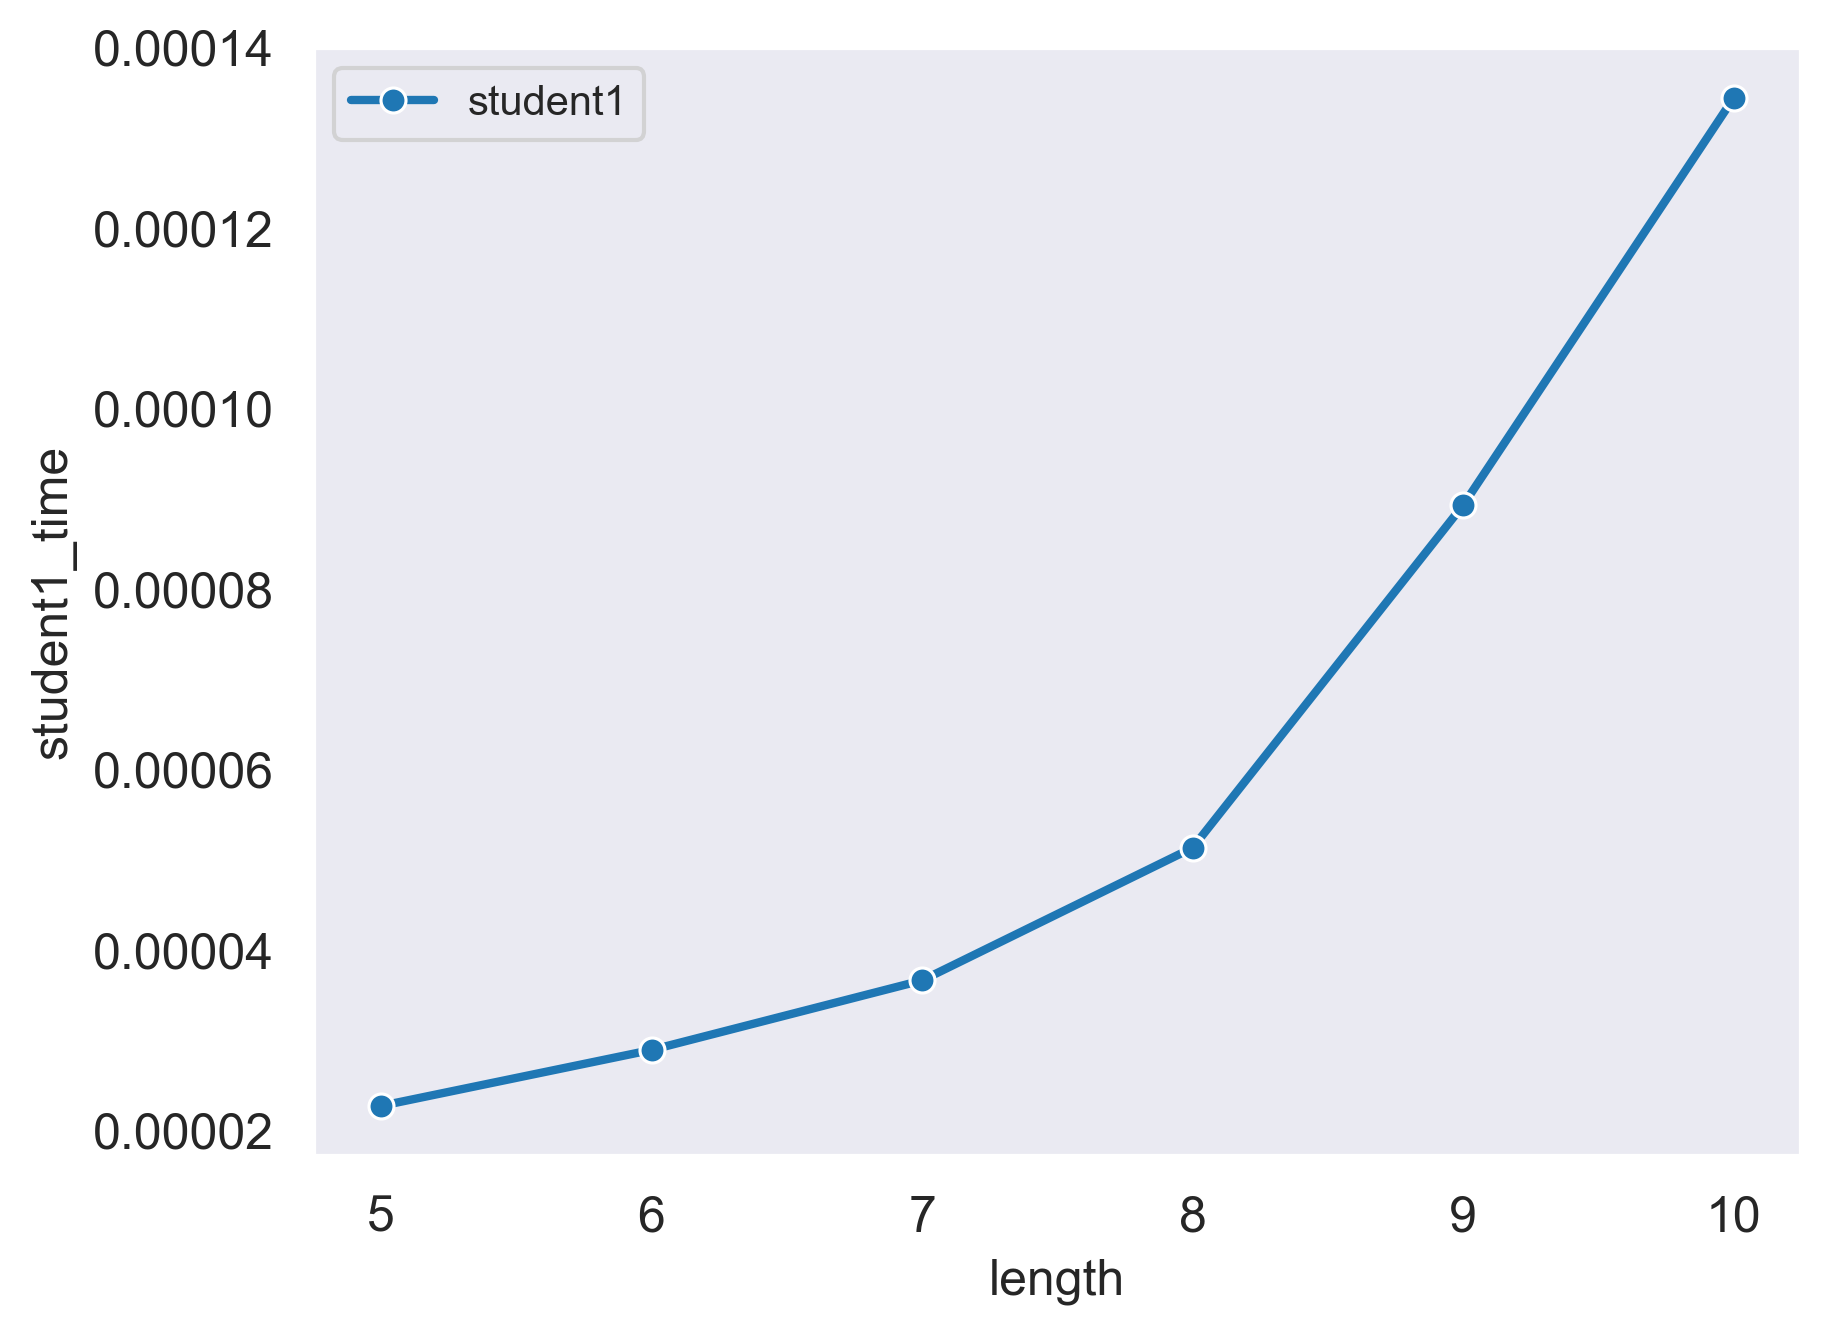
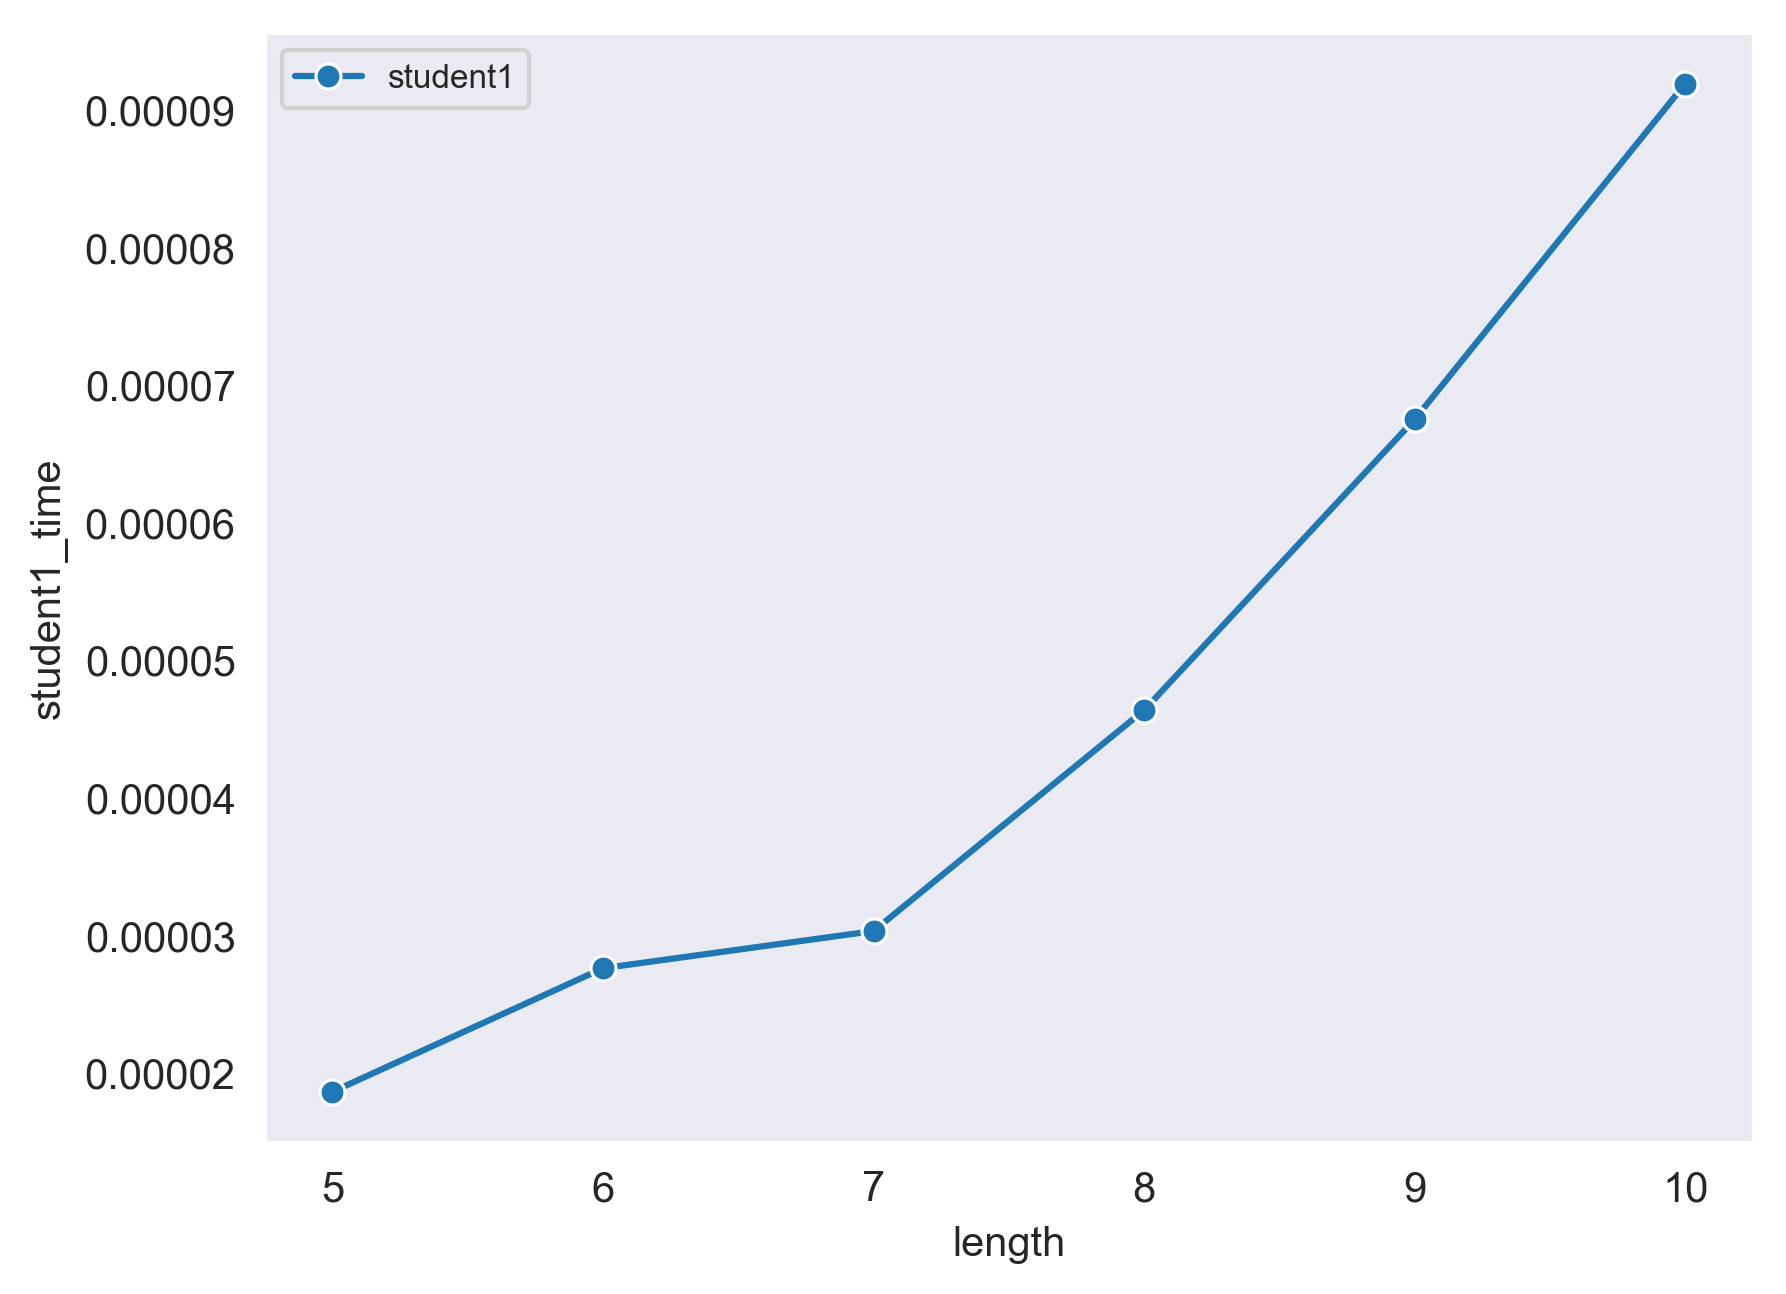
decrease plot text size

diff --git a/run.py b/run.py
@@ -17,16 +17,16 @@ import numpy as np
 import pandas as pd
 
 # JB's favorite Seaborn settings for notebooks
-rc = {'lines.linewidth': 2,
-      'axes.labelsize': 12,
-      'axes.titlesize': 14,
+rc = {'lines.linewidth': 1.5,
+      'axes.labelsize': 10,
+      'axes.titlesize': 12,
       'axes.facecolor': 'DFDFE5'}
-sns.set_context('notebook', rc=rc)
+# sns.set_context('notebook', rc=rc)
 sns.set_style("dark")
 
-mpl.rcParams['xtick.labelsize'] = 12
-mpl.rcParams['ytick.labelsize'] = 12
-mpl.rcParams['legend.fontsize'] = 10
+mpl.rcParams['xtick.labelsize'] = 10
+mpl.rcParams['ytick.labelsize'] = 10
+mpl.rcParams['legend.fontsize'] = 8
 
 # The name of the solver script.
 # Only directories that have this exact file will be considered.
